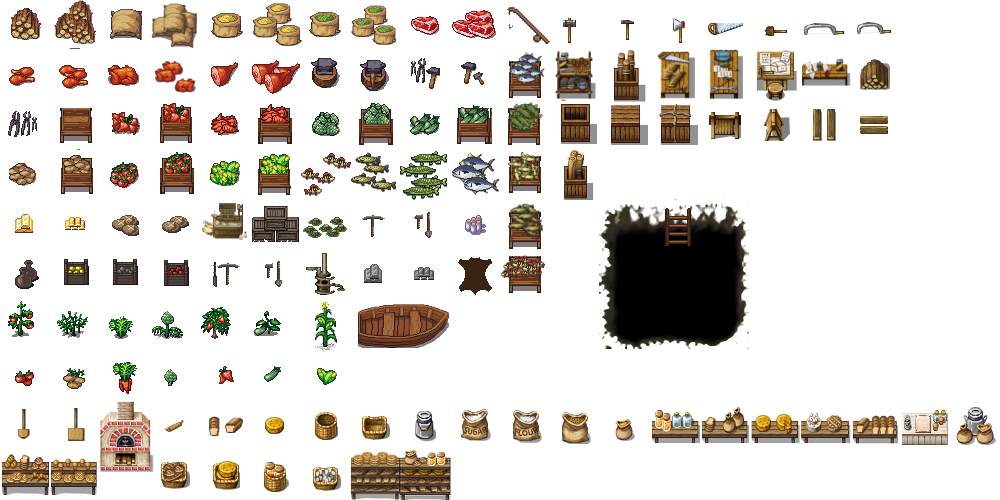
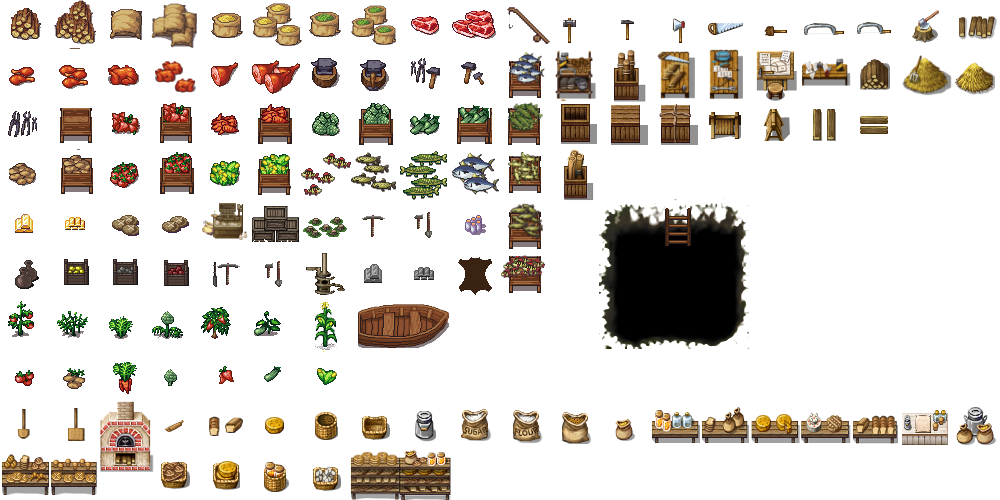
Added wood-related resources

Changed region(s): [[0.899, 0.12, 1.0, 0.21], [0.899, 0.03, 1.0, 0.09]]

diff --git a/Divine Right/Objects/Graphics/SpriteManager.cs b/Divine Right/Objects/Graphics/SpriteManager.cs
@@ -441,6 +441,11 @@ namespace DRObjects.Graphics
             AddLocalSprite(LocalSpriteName.MINE_SHAFT_BC, RESOURCES_AND_TOOLS, 13, 6);
             AddLocalSprite(LocalSpriteName.MINE_SHAFT_BR, RESOURCES_AND_TOOLS, 14, 6);
 
+            AddLocalSprite(LocalSpriteName.TREE_STUMP_HATCHET, RESOURCES_AND_TOOLS, 18, 0);
+            AddLocalSprite(LocalSpriteName.WOOD_LOGS_3, RESOURCES_AND_TOOLS, 19, 0);
+            AddLocalSprite(LocalSpriteName.HAY_BALE_2, RESOURCES_AND_TOOLS, 18, 1);
+            AddLocalSprite(LocalSpriteName.HAY_BALE_3, RESOURCES_AND_TOOLS, 19, 1);
+
             localSprites[(int)LocalSpriteName.TREE_1] = new SpriteData(FORESTS_AND_MINES, new Rectangle(0, 0, 50, 50));
             localSprites[(int)LocalSpriteName.DEAD_TREE] = new SpriteData(FORESTS_AND_MINES, new Rectangle(50, 0, 50, 50));
             localSprites[(int)LocalSpriteName.TREE_2] = new SpriteData(FORESTS_AND_MINES, new Rectangle(100, 0, 50, 50));

diff --git a/Divine Right/Objects/Graphics/LocalSpriteName.cs b/Divine Right/Objects/Graphics/LocalSpriteName.cs
@@ -603,6 +603,10 @@ namespace DRObjects.Graphics
         WALL_WOOD_R,
         WALL_WOOD_U,
         WALL_WOOD_L,
+        HAY_BALE_3,
+        HAY_BALE_2,
+        WOOD_LOGS_3,
+        TREE_STUMP_HATCHET,
 
     }
 }
